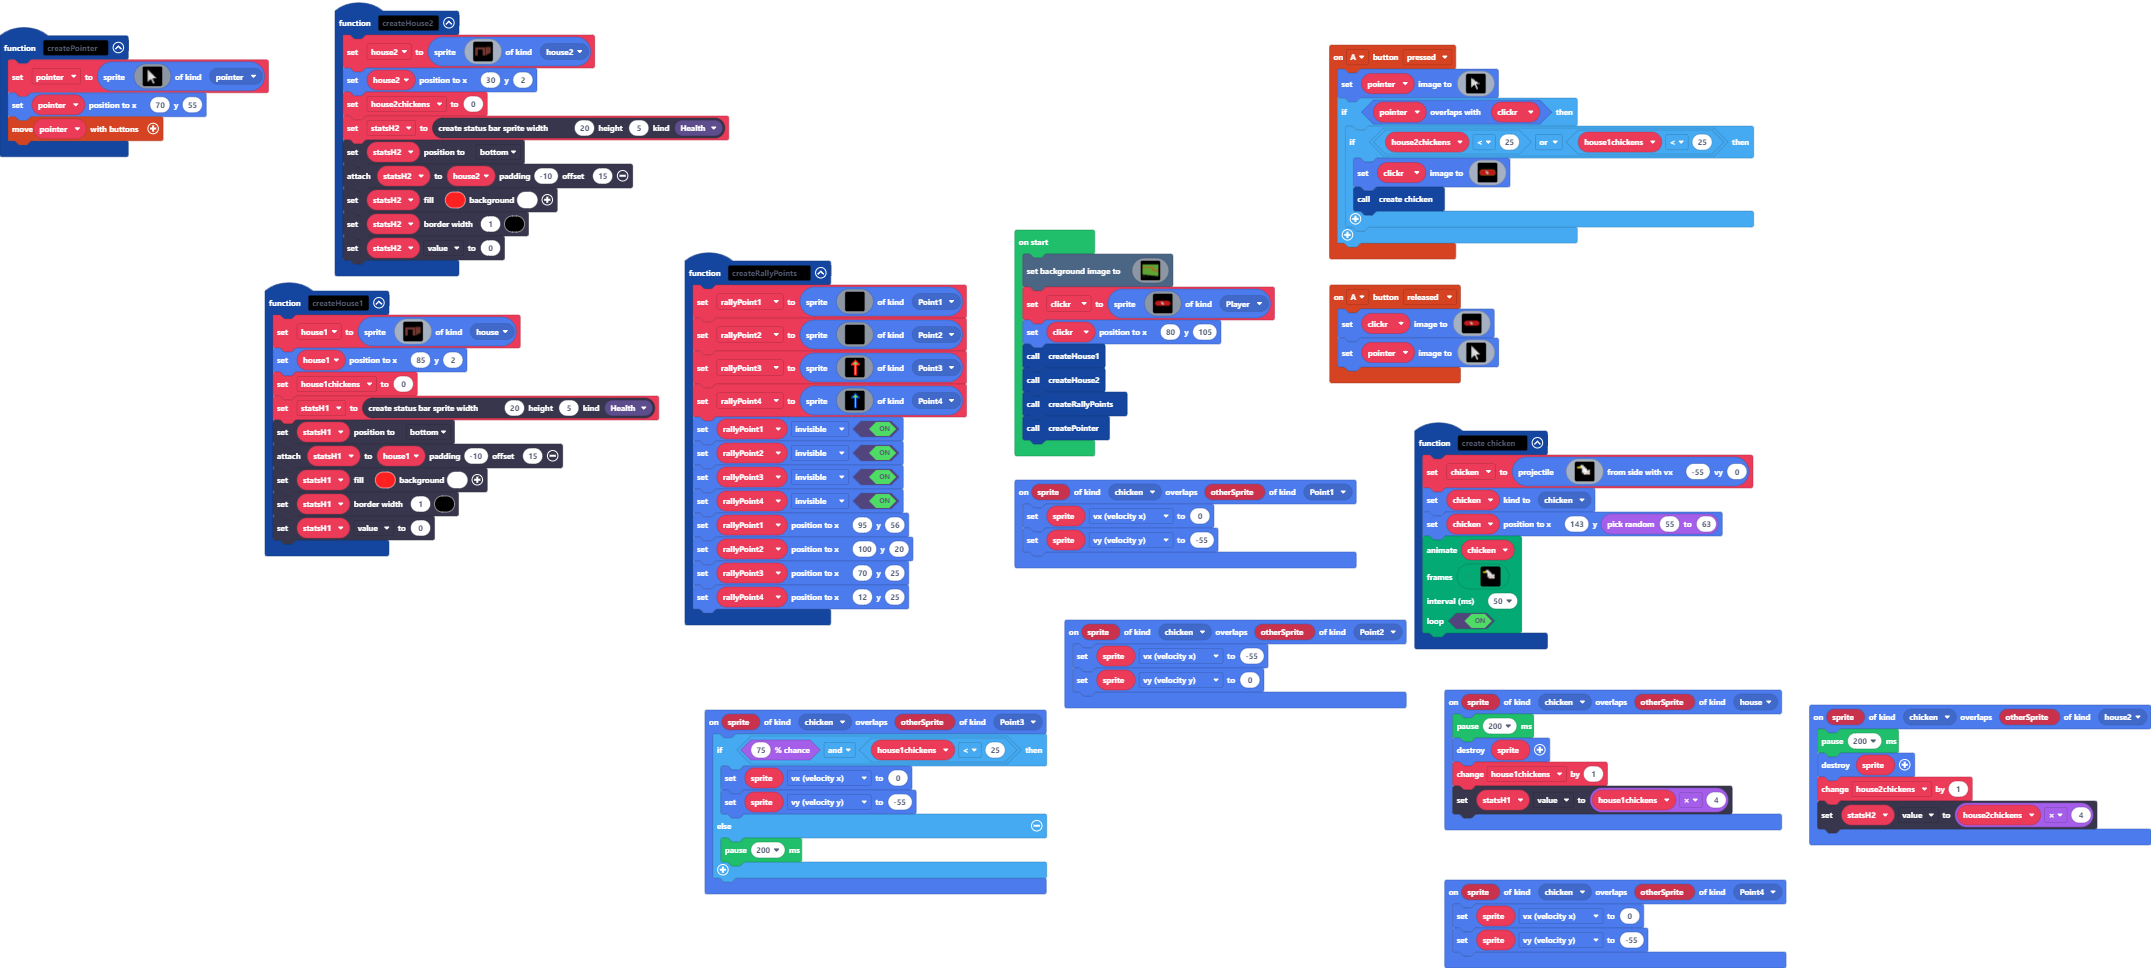
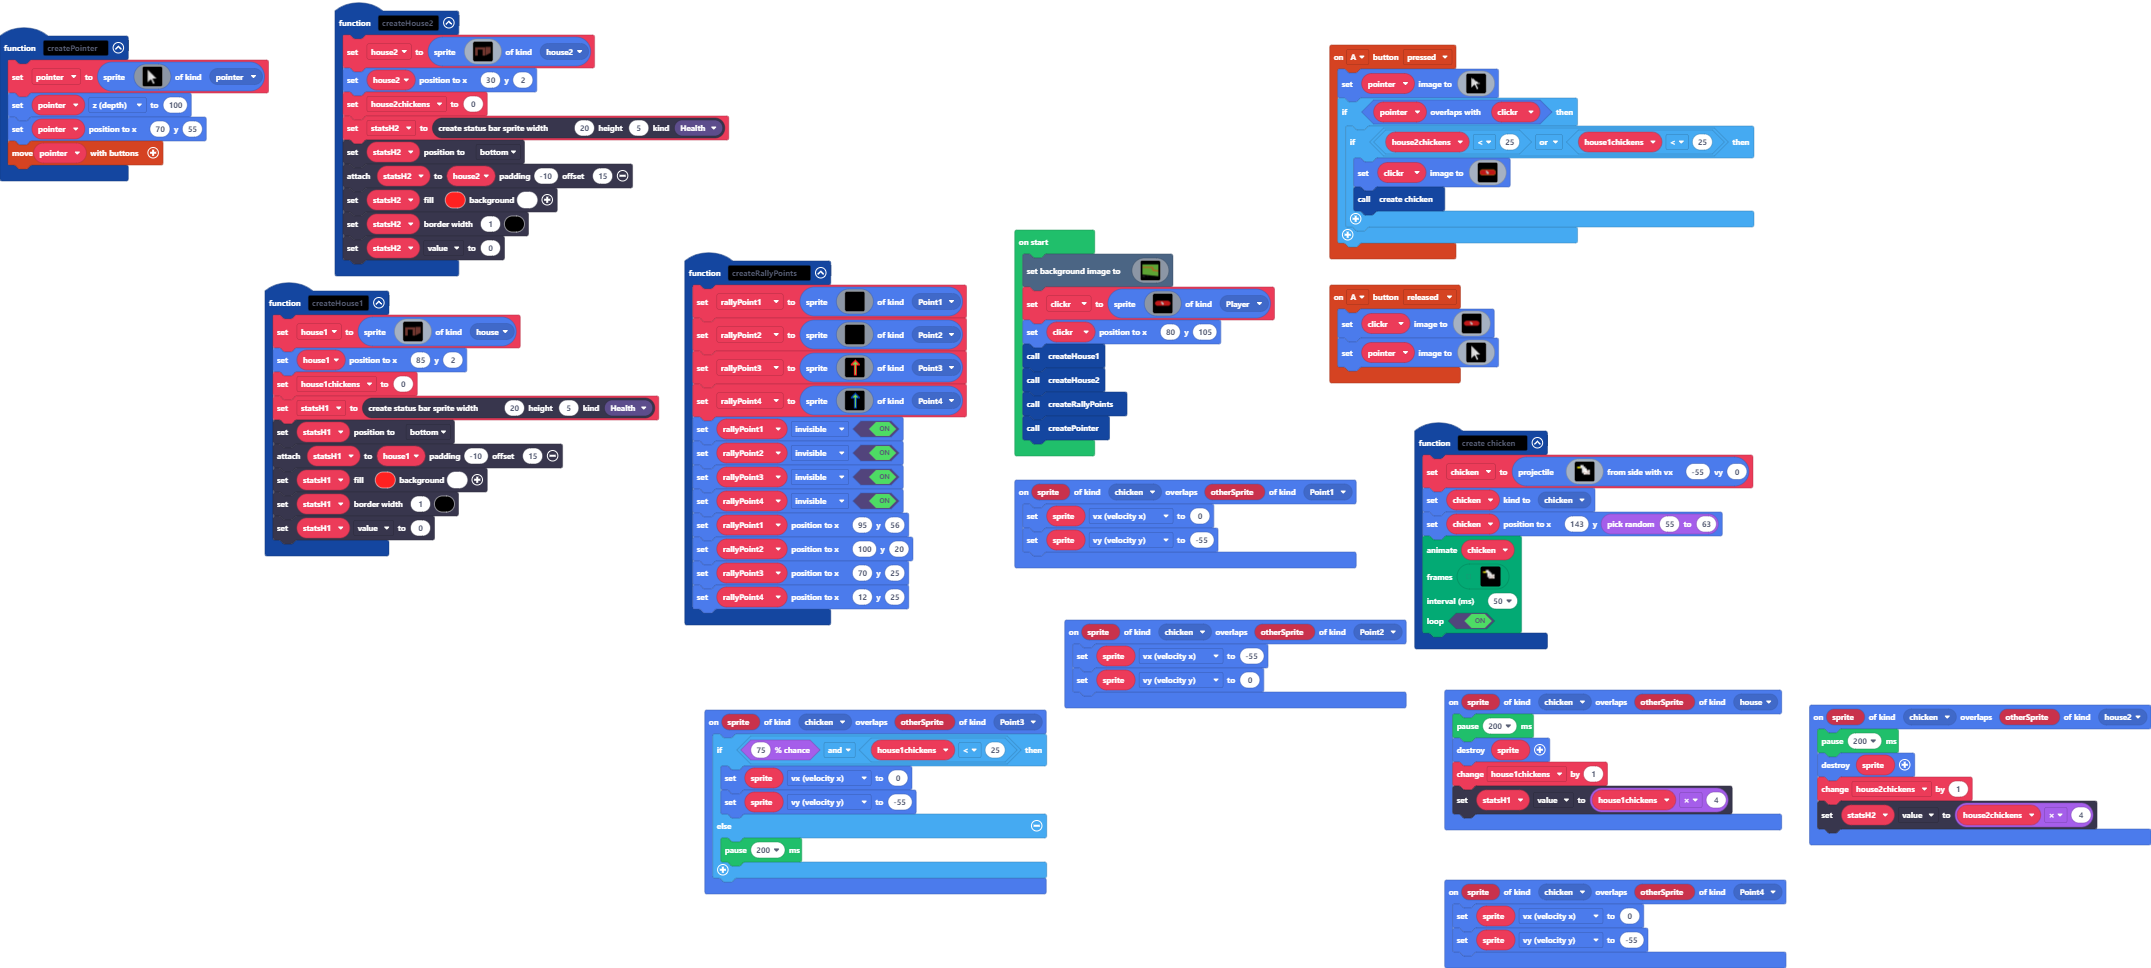
Made the pointer be at the front or top of the screen

Changed region(s): [[0.0, 0.093, 0.1246, 0.186], [0.0311, 0.031, 0.0623, 0.062]]

diff --git a/main.ts b/main.ts
@@ -289,6 +289,7 @@ function createPointer () {
         . . . . . . f 1 1 f . . 
         . . . . . . . f f . . . 
         `, SpriteKind.pointer)
+    pointer.z = 100
     pointer.setPosition(70, 55)
     controller.moveSprite(pointer)
 }
